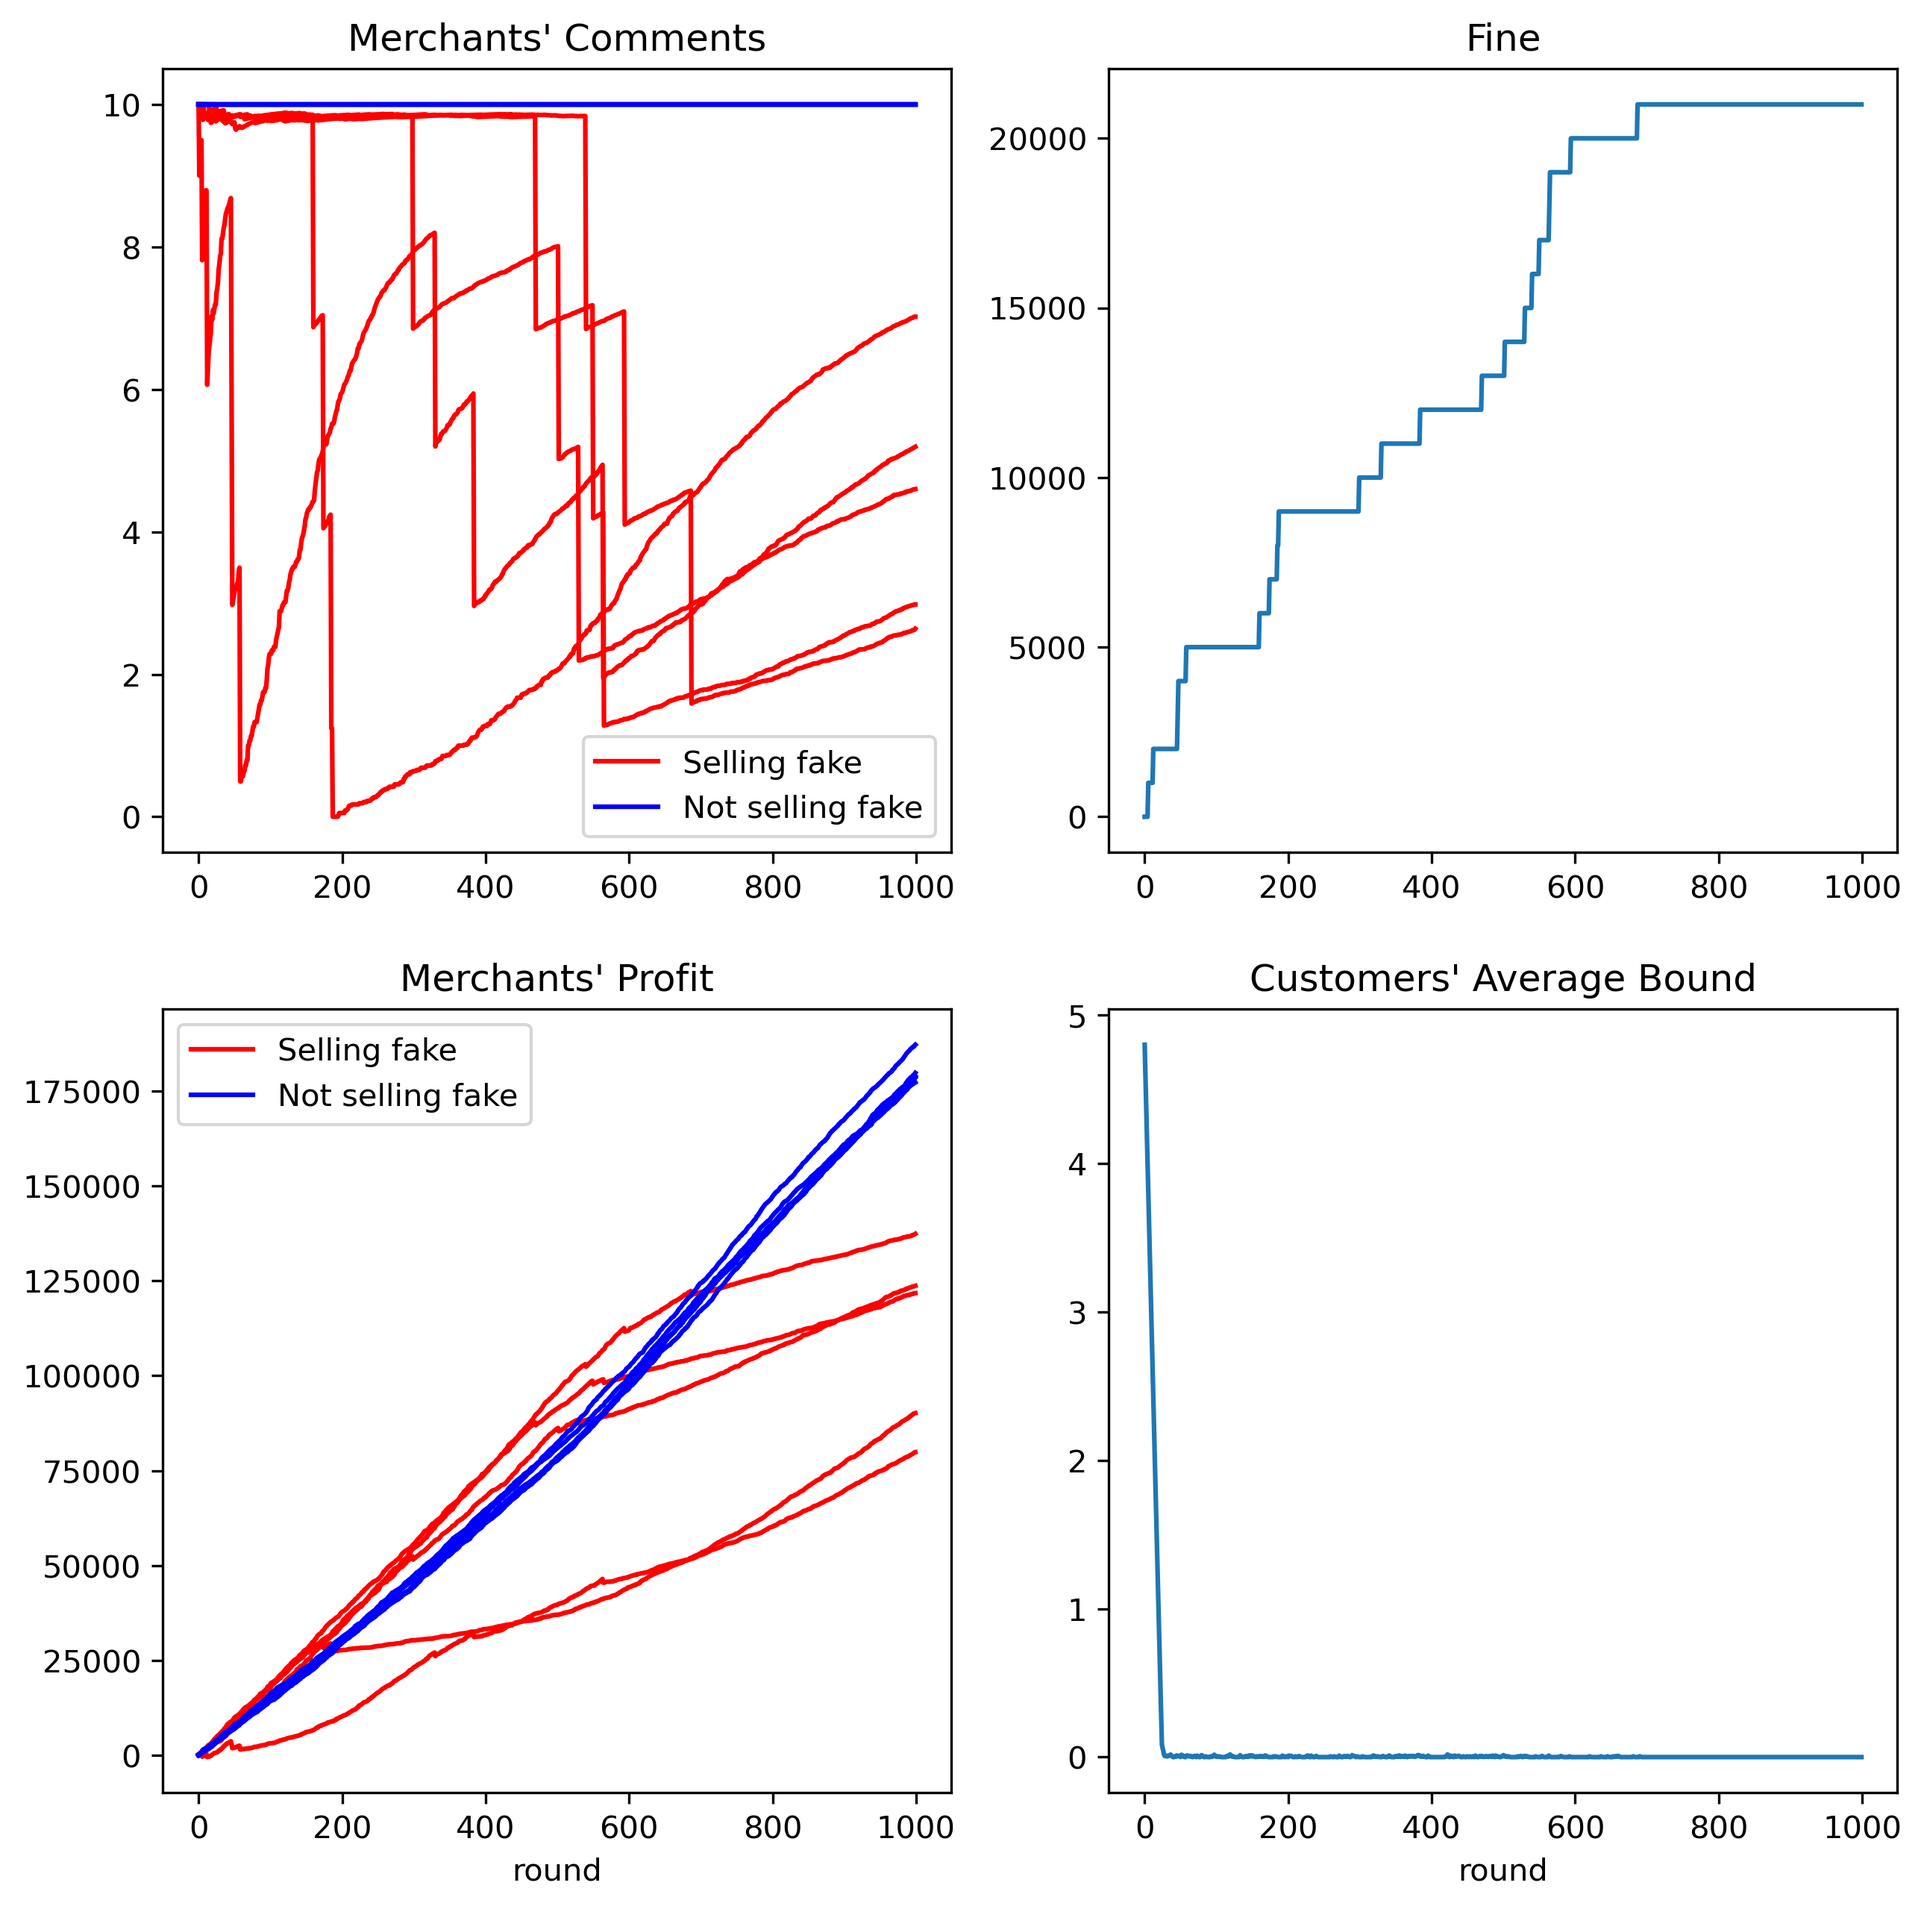
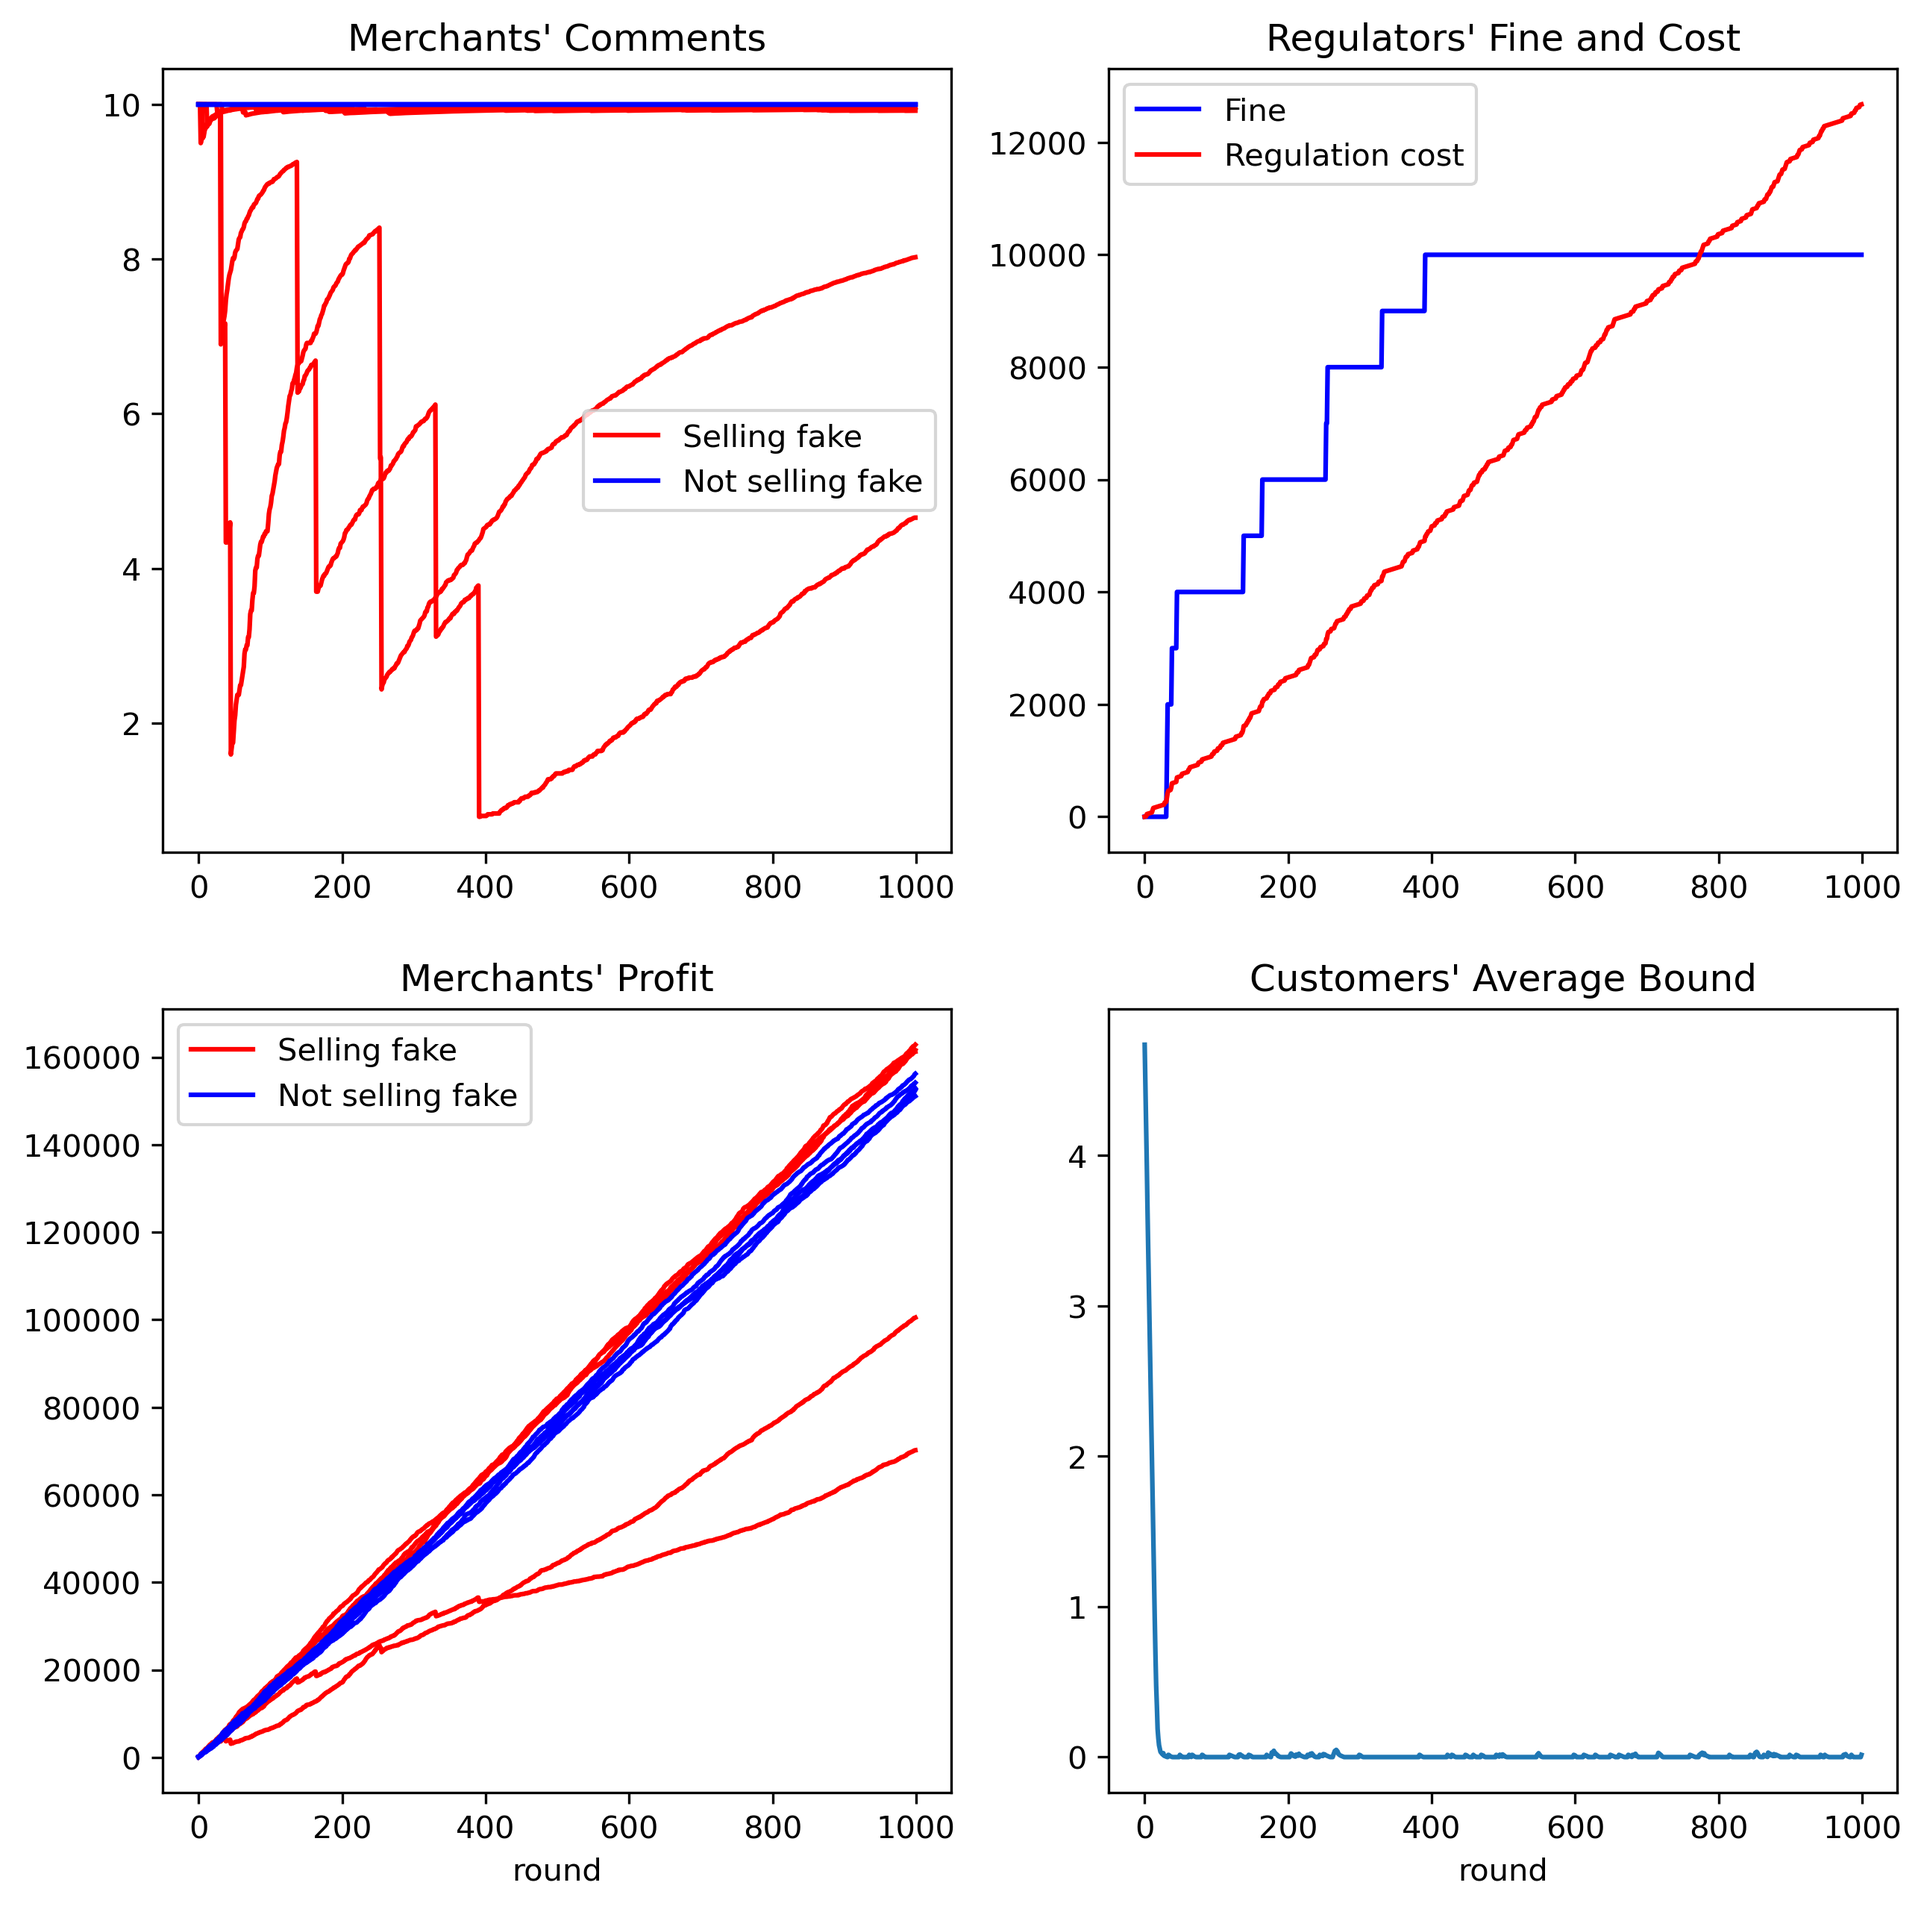
Final.

diff --git a/_plot.py b/_plot.py
@@ -32,10 +32,10 @@ def plot_image(data, title, mers, show):
     axes[0, 0].legend([handle for i, handle in enumerate(handles) if i in display],
                       ['Selling fake', 'Not selling fake'])
     axes[0, 1].set_title("Regulators' Fine and Cost")
-    axes[0, 1].plot(reg_fine,label='fine',color='b')
-    axes[0, 1].plot(reg_cost,label='cost',color='r')
+    axes[0, 1].plot(reg_fine, label='fine', color='b')
+    axes[0, 1].plot(reg_cost, label='cost', color='r')
     handles_reg, labels_reg = axes[0, 1].get_legend_handles_labels()
-    axes[0, 1].legend([handle for i, handle in enumerate(handles_reg) if i in [0,reg_num]],
+    axes[0, 1].legend([handle for i, handle in enumerate(handles_reg) if i in [0, reg_num]],
                       ['Fine', 'Regulation cost'])
 
     axes[1, 0].set_title("Merchants' Profit")
@@ -110,8 +110,10 @@ def plot_monte_average(title, show=True, times=10):
     else:
         plt.savefig('./images/monte-ave-' + title[-3:], bbox_inches='tight')
 
-
-def plot_monte_average_all(titles, mers_num, show=True, times=10):
+import re
+def plot_monte_average_all(titles, show=True, times=10):
+    a = re.compile('\d-\d{1,2}')
+    re_titles = [a.findall(title)[0] for title in titles]
     sub_num = len(titles)
     fig, axes = plt.subplots(1, 1, figsize=(5, 5), dpi=300)
     mers_money_set = []
@@ -127,23 +129,23 @@ def plot_monte_average_all(titles, mers_num, show=True, times=10):
     for i, mers_money in enumerate(mers_money_set):
         axes.plot(mers_money)
         color = ['r' for i in range(speculative_num)] + ['b' for i in range(honest_num)] + ['g' for i in
-                                                                                            range(sum(mers_num), sum(
-                                                                                                mers_num) + speculative_num)] + [
-                    'c' for i in range(sum(mers_num) + speculative_num, 2 * sum(mers_num))]
+                                                                                            range(mers_total_num,
+                                                                                                  mers_total_num + speculative_num)] + [
+                    'c' for i in range(mers_total_num + speculative_num, 2 * mers_total_num)]
     for i, j in enumerate(axes.lines):
         j.set_color(color[i])
         j.set_linestyle(linestyle_str[i])
         j.set_label('Selling fake' if i < speculative_num else 'Not Selling fake')
     handles, labels = axes.get_legend_handles_labels()
-    display = [0, speculative_num, sum(mers_num), sum(mers_num) + speculative_num]
+    display = [0, speculative_num, mers_total_num, mers_total_num + speculative_num]
     axes.plot([0], marker='None', linestyle='None', label='7-7')
     axes.plot([0], marker='None', linestyle='None', label='7-8')
     fig.legend([axes.lines[-2], axes.lines[-1]] * 2 + [handle for i, handle in enumerate(handles) if i in display],
-               ['7.7', '', '7.8', ''] + ['Selling fake', 'Not selling fake'] * 2, ncol=2)
+               ['%s'%re_titles[0], '', '%s'%re_titles[1], ''] + ['Selling fake', 'Not selling fake'] * 2, ncol=2)
     if show:
         plt.show()
     else:
-        plt.savefig('./images/' + 'monte-ave-all-' + title[-3:], bbox_inches='tight')
+        plt.savefig('./images/' + 'monte-ave-all-' + re_titles[0], bbox_inches='tight')
 
 
 def plot_monte_all(title, show=True, times=10):
@@ -295,7 +297,7 @@ def plot_image_5(pars_titles, show):
     linestyle_str = (['dashed'] * speculative_num + ['solid'] * honest_num + ['dotted'] * reg_num) * len(pars_titles)
     color = ['r'] * total_num + ['b'] * total_num
     for i, mers_money in enumerate(mers_money_set):
-        axes.plot(mers_money,alpha=1-i/len(mers_money_set))
+        axes.plot(mers_money, alpha=1 - i / len(mers_money_set))
         axes.plot(regs_fine_set[i])
     for i, j in enumerate(axes.lines):
         j.set_color(color[i])

diff --git a/default_par.py b/default_par.py
@@ -15,7 +15,7 @@ general_par = {
     "fake_price_coefficient": 1,
     "real_price": [10],
     'prob_buy_good': [1],
-    'identify_fake_rate': [0.05],
+    'identify_fake_rate': np.array([0.05]),
     'fake_rate': np.array([0.3]),
     'comment_system': True,
 }
@@ -66,6 +66,7 @@ customer_par = {
     'prob_random_buy': 0.0,
     'prob_comment_on_real': [1.0],
     'buy_with_weights': False,
+    'learning_fake_rate': 0,
 }
 
 # Regulator's default parameter
@@ -123,7 +124,9 @@ par_model_3_2['cus']['prob_comment_on_real'] = [0.2]
 par_model_3_3 = copy.deepcopy(par_model_3_2)
 par_model_3_3['cus']['buy_with_weights'] = True
 par_model_3_4 = copy.deepcopy(par_model_3_3)
-par_model_3_4['cus']['identify_fake_rate'] = [0.5]
+par_model_3_4['cus']['identify_fake_rate'] = np.array([0.50])
+par_model_3_5 = copy.deepcopy(par_model_3_3)
+par_model_3_5['cus']['learning_fake_rate'] = 0.01
 
 par_model_4_1 = copy.deepcopy(par_model_1_1)
 par_model_4_1['cus'] = customer_par
@@ -172,7 +175,7 @@ par_model_6_5['mer']['speculative_num'] = 5
 par_model_7_1 = copy.deepcopy(par_model_6_5)
 cus_change = {
     'prob_buy_good': [0.8, 0.2],
-    'identify_fake_rate': [0, 0.10],
+    'identify_fake_rate': np.array([0, 0.10]),
     'prob_comment_on_real': [0.2, 0.8],
     'buy_bound_change_real': [0.2, 0.6],
     'buy_bound_change_fake': [0.5, 1.5],
@@ -212,9 +215,14 @@ par_model_7_7['reg']['check_inside_market'] = False
 par_model_7_8 = copy.deepcopy(par_model_7_2)
 par_model_7_8['reg']['check_inside_market'] = False
 
-par_model_7_9 = copy.deepcopy(par_model_7_1)
-par_model_7_9['reg']['check_inside_market'] = False
-par_model_7_9['mer'].update({'speculative_num': 9, 'honest_num': 1})
-par_model_7_10 = copy.deepcopy(par_model_7_2)
-par_model_7_10['reg']['check_inside_market'] = False
-par_model_7_10['mer'].update({'speculative_num': 9, 'honest_num': 1})
+# par_model_7_9 = copy.deepcopy(par_model_7_1)
+# par_model_7_9['reg']['check_inside_market'] = False
+# par_model_7_9['mer'].update({'speculative_num': 9, 'honest_num': 1})
+# par_model_7_10 = copy.deepcopy(par_model_7_2)
+# par_model_7_10['reg']['check_inside_market'] = False
+# par_model_7_10['mer'].update({'speculative_num': 9, 'honest_num': 1})
+
+par_model_7_9 = copy.deepcopy(par_model_7_7)
+par_model_7_9['reg']['prob_check_good'] = [0.5, 0.5]
+par_model_7_10 = copy.deepcopy(par_model_7_8)
+par_model_7_10['reg']['prob_check_good'] = [0.5, 0.5]

diff --git a/main.py b/main.py
@@ -69,8 +69,8 @@ plot_image_4(pars_titles_new, show=0)
 # pars = [par_model_6_1, par_model_6_2,par_model_6_3,par_model_6_4,par_model_6_5]
 # pars_titles = ['model_6-1', 'model_6-2','model_6-3','model_6-4','model_6-5']
 
-pars = [par_model_3_4]
-pars_titles = ['model_3-4']
+pars = [par_model_7_9,par_model_7_10]
+pars_titles = ['model_7-9','model_7-10']
 
 # pars = [par_model_7_1, par_model_7_2,par_model_7_3,par_model_7_4]
 # pars_titles = ['model_7-1', 'model_7-2','monte_7-3','monte_7-4']
@@ -80,14 +80,15 @@ pars_titles = ['model_3-4']
 # pars_titles = ['model_7-7','model_7-8']
 # pars = [par_model_7_9,par_model_7_10]
 # pars_titles = ['model_7-9','model_7-10']
-show=False
-output_single(pars, pars_titles, show=show, set_seed=25)
+show = False
+# output_single(pars, pars_titles, show=show, set_seed=2)
 
 # times = 30
 # for par, title in zip(pars, pars_titles):
 #     monte_process_data(par, title, times)
-    # plot_monte_average(title, show=show,times=times)
-    # plot_monte_all(title, show=show, times=times)
-# plot_monte_average_all(pars_titles,[5,5],False,times)
+#     plot_monte_average(title, show=show, times=times)
+#     plot_monte_all(title, show=show, times=times)
+pars_titles = ['model_7-8','model_7-10']
+plot_monte_average_all(pars_titles,False,times)
 # plot_reg_cost(pars_titles,times)
 # plot_image_5(pars_titles[2:], show=False)

diff --git a/model.py b/model.py
@@ -81,6 +81,7 @@ class Customer:
         self.prob_comment_on_real = par['prob_comment_on_real']
         self.prob_random_buy = par['prob_random_buy']  # Irrational customer.
         self.buy_with_weights = par['buy_with_weights']
+        self.learning_fake_rate = par['learning_fake_rate']
         #  Parameter TBD
 
     def change_bound(self, perceive_real=None, buy_good_kind=None):
@@ -106,6 +107,10 @@ class Customer:
         :return:
         """
         pass
+
+    def increase_identify_rate(self, good_kind):
+        self.identify_fake_rate[good_kind] += self.learning_fake_rate
+        self.identify_fake_rate[self.identify_fake_rate > 1] = 1
 
     def buy(self, mers, mers_num):
         """
@@ -138,6 +143,7 @@ class Customer:
             # found by the customer
             if choices([found_fake, False], [identify_fake_rate, 1 - identify_fake_rate])[0]:
                 self.change_bound(False, good_kind)
+                self.increase_identify_rate(good_kind)
                 true_type = False
                 perceive_type = False
             # Merchant sold fake but wasn't found by the customer.
